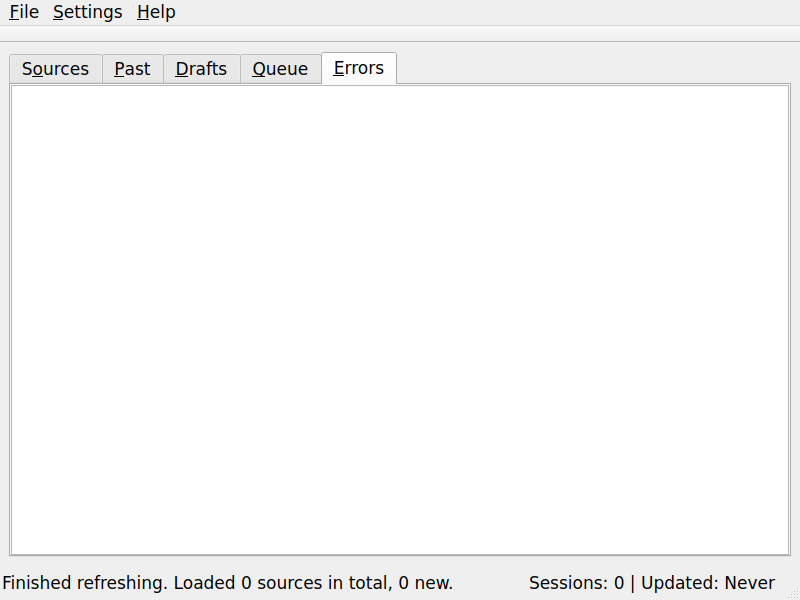
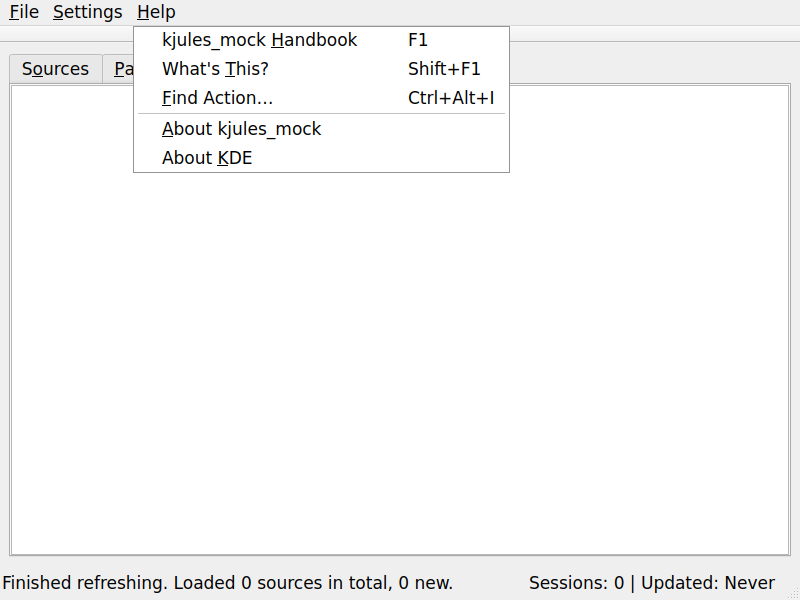
Fix headless screenshot generation for popup menus
- Updated `mock.cpp` to use `QPainter` to composite the `MainWindow` pixmap and the `QMenu` pixmap together. `QScreen::grabWindow` doesn't composite popup widgets in the `offscreen` Qt platform plugin natively, resulting in blank screenshots.
- Regenerated menu screenshots using this custom compositing logic.

Changed region(s): [[0.1562, 0.03, 0.625, 0.3]]

diff --git a/.jules/mock/mock.cpp b/.jules/mock/mock.cpp
@@ -14,6 +14,7 @@
 #include "apimanager.h"
 #include <QMenuBar>
 #include <QMenu>
+#include <QPainter>
 
 // Define MOCK_UI_TEST if not defined by compiler
 #ifndef MOCK_UI_TEST
@@ -87,17 +88,25 @@ int main(int argc, char *argv[]) {
 
                 // We want to grab the main window as it contains the menu bar,
                 // but the popup menu itself might be a separate top-level widget.
-                // However, headless QMenu sometimes doesn't render properly with grab().
-                // We'll grab the whole virtual screen to try and capture window borders
-                // and any popup widget.
+                // Since `screen->grabWindow(0)` and `window.grab()` can fail to capture headless popups,
+                // we will composite the image manually by grabbing both and painting the menu over the window.
 
-                QScreen *screen = QApplication::primaryScreen();
-                if (screen) {
-                    QPixmap menuPix = screen->grabWindow(0);
-                    QString filename = QString("screenshot_menu_%1.png").arg(title.toLower());
-                    menuPix.save(filename);
-                    qDebug() << "Saved" << filename;
-                }
+                QPixmap windowPix = window.grab();
+                QPixmap popupPix = menu->grab();
+
+                QPainter painter(&windowPix);
+
+                // Get position of the menu item in the menu bar to draw it accurately
+                QAction* menuAction = menu->menuAction();
+                QRect actionRect = menuBar->actionGeometry(menuAction);
+
+                // Draw the popup right below its action in the menu bar
+                painter.drawPixmap(actionRect.left(), menuBar->height(), popupPix);
+                painter.end();
+
+                QString filename = QString("screenshot_menu_%1.png").arg(title.toLower());
+                windowPix.save(filename);
+                qDebug() << "Saved" << filename;
 
                 menu->hide();
                 QApplication::processEvents();
